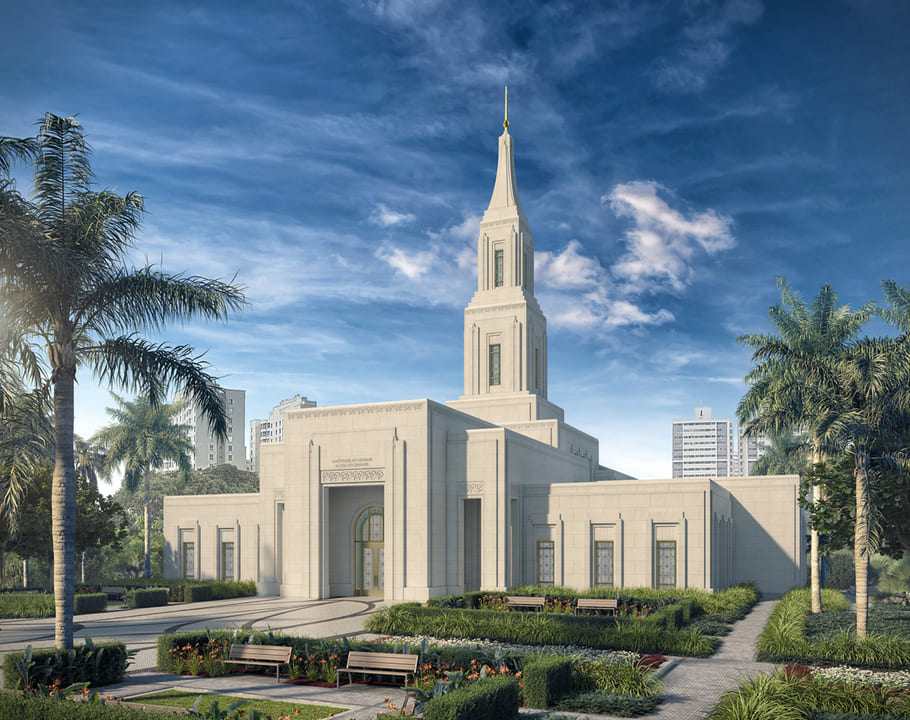
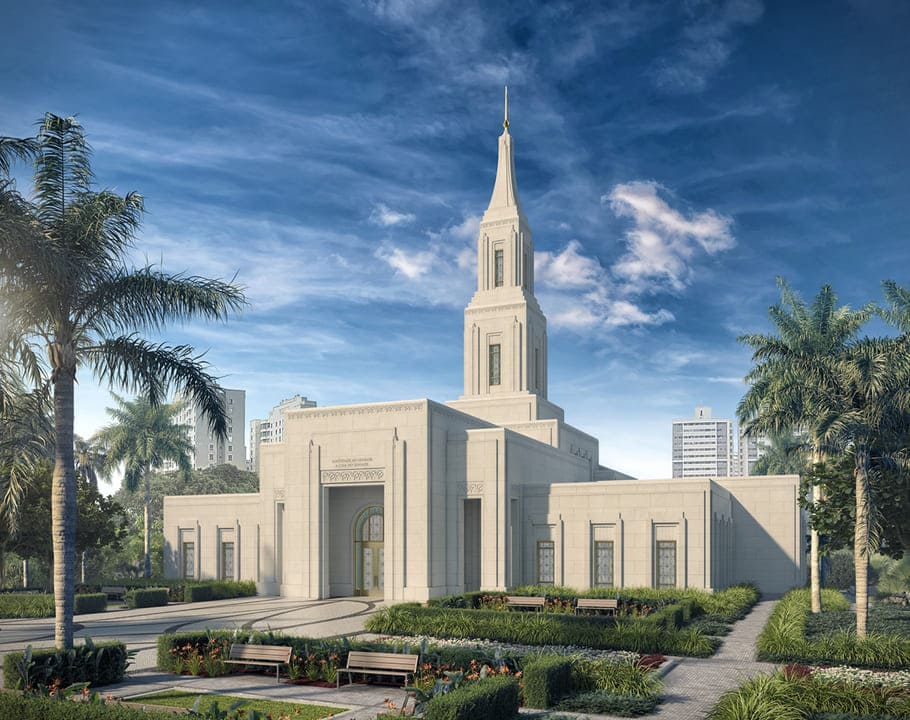
Fix temple album audit issues

diff --git a/templos.html b/templos.html
@@ -3,15 +3,22 @@
 <head>
     <meta charset="UTF-8">
     <meta name="viewport" content="width=device-width, initial-scale=1.0">
-    <meta name="description" content="Álbum de templos responsivo">
+    <meta name="description" content="Álbum com imagens de Templos de diversos países responsivo para navegação adaptável.">
     <meta name="author" content="Karina Ventura">
 
     <title>Álbum do Templo</title>
 
+    <link rel="preconnect" href="https://fonts.googleapis.com">
+    <link rel="preconnect" href="https://fonts.gstatic.com" crossorigin>
+    <link href="https://fonts.googleapis.com/css2?family=Roboto:wght@400;700&display=swap" rel="stylesheet">
+    
     <link rel="stylesheet" href="estilos/templos.css">
-    <link rel="stylesheet" href="estilos/templos-grandes.css">
+    <link rel="stylesheet" href="estilos/templos-grande.css">
+    
 
     <script src="scripts/templos.js" defer></script>
+
+    
 </head>
 
 <body>

diff --git a/estilos/templos.css b/estilos/templos.css
@@ -1,5 +1,3 @@
-@import url('https://fonts.googleapis.com/css2?family=Roboto:wght@400;700&display=swap');
-
 * {
     margin: 0;
     padding: 0;